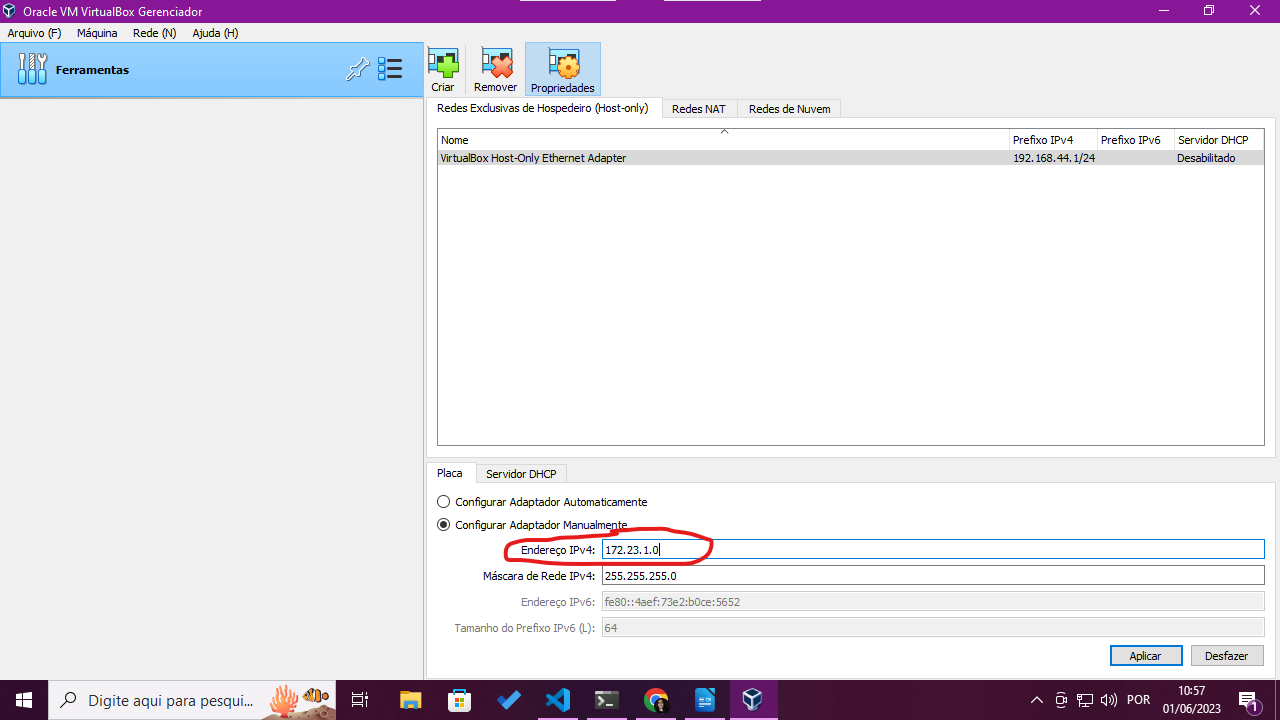
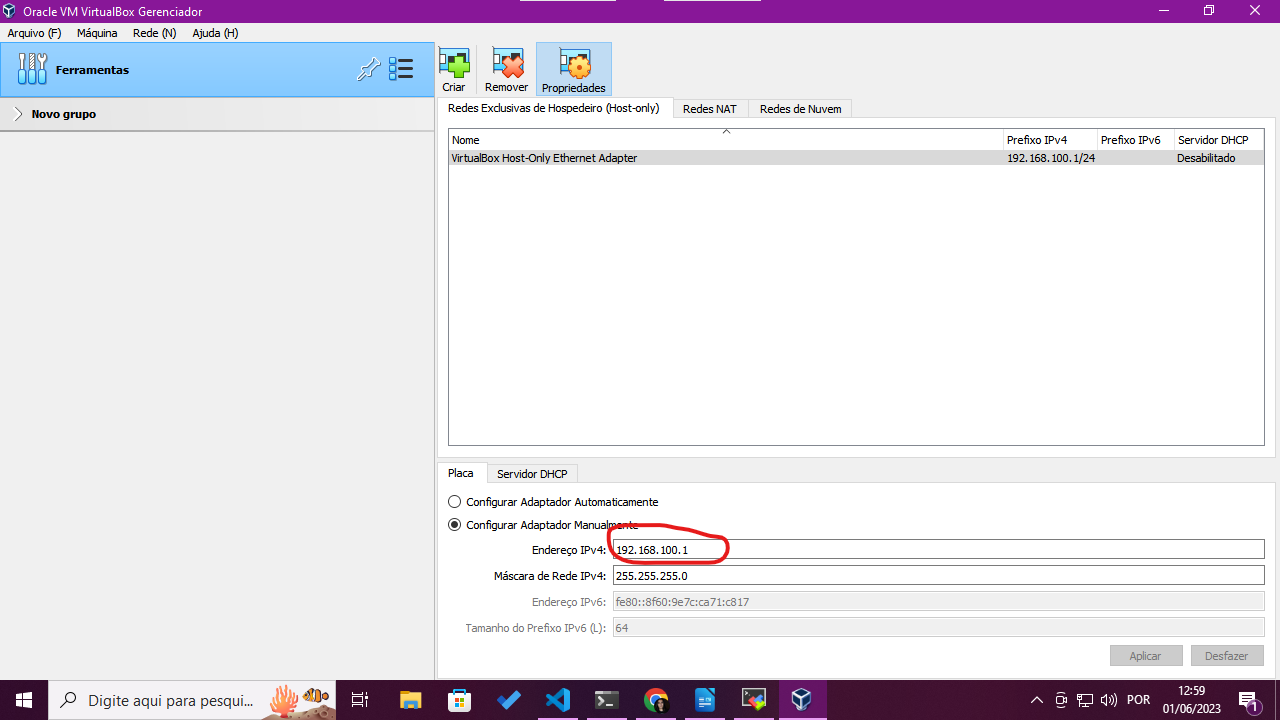
changes

diff --git a/README.md b/README.md
@@ -25,13 +25,13 @@ Foi criada uma rede virtual e duas VM's conectadas a ela, a primeira possuindo a
 **A rede possui as seguintes características:**
 |tipo| cidr|
 |----|-----------------|
-|host-only|172.23.1.0/24|
+|host-only|192.168.100.0/24|
 
 **As VM's possuem as seguintes características:**
 | VM | endereço ip | memória | cpus |
 |----|-------------|---------|------|
-|opencms|172.23.1.10|2048|1
-|psql|172.23.1.20|1024|1
+|opencms|192.168.100.10|2048|1
+|psql|192.168.100.20|1024|1
 
 #### Virtualbox
 Eu comecei criando a rede que seria responsável por interligar as VM's, 
@@ -44,17 +44,26 @@ seguindo os passos a seguir:
 ![Imagem 4 - Definições de rede](imagens/imp-manual-4.png)
 3. Criei a nova rede
 ![Imagem 5 - Criando uma nova rede](imagens/imp-manual-5.png)
-4. Alterei o o bloco CIDR padrão dela para o que eu deseja:
+4. Alterei o o bloco CIDR padrão dela para o que eu desejava:
 ![Imagem 6 - Selecionando a rede](imagens/imp-manual-6.png)
 ![Imagem 7 - Alterando o bloco cidr da rede](imagens/imp-manual-7.png)
-5. Criei as VMs adicionando as informações presentes na tabela anterior.
+
+Em seguida eu passei para a criação das VM's e a inserção delas na rede:
+1. Criei as VMs adicionando as informações presentes na tabela anterior.
 ![Imagem 8 - Selecionando a rede](imagens/imp-manual-8.png)
 ![Imagem 9 - Criando nova VM](imagens/imp-manual-9.png)
 ![Imagem 10 - Criação 1](imagens/imp-manual-10.png)
 ![Imagem 11 - Criação 2](imagens/imp-manual-11.png)
 ![Imagem 12 - Criação 3](imagens/imp-manual-12.png)
 
->:bulb: Agora é só realizar a instalação do Almalinux, ela pode ser feita seguindo
+2. Adicionei a interface de rede a uma das VM's para que ela pudesse se conectar
+a rede, a partir daqui é só repetir o mesmo processo para a segunda VM.
+![Imagem 13 - Selecionando VM](imagens/imp-manual-13.png)
+![Imagem 14 - Selecionando definições de rede](imagens/imp-manual-14.png)
+![Imagem 15 - Janela de interfaces de rede ](imagens/imp-manual-15.png)
+![Imagem 16 - Adicionando a interface de rede](imagens/imp-manual-16.png)
+
+>:bulb: Depois de tudo isso é só realizar a instalação do Almalinux, ela pode ser feita seguindo
 o  [guia de instalação do AlmaLinux](https://wiki.almalinux.org/documentation/installation-guide.html#installation) presente na documentação oficial.
 
 #### Linux
